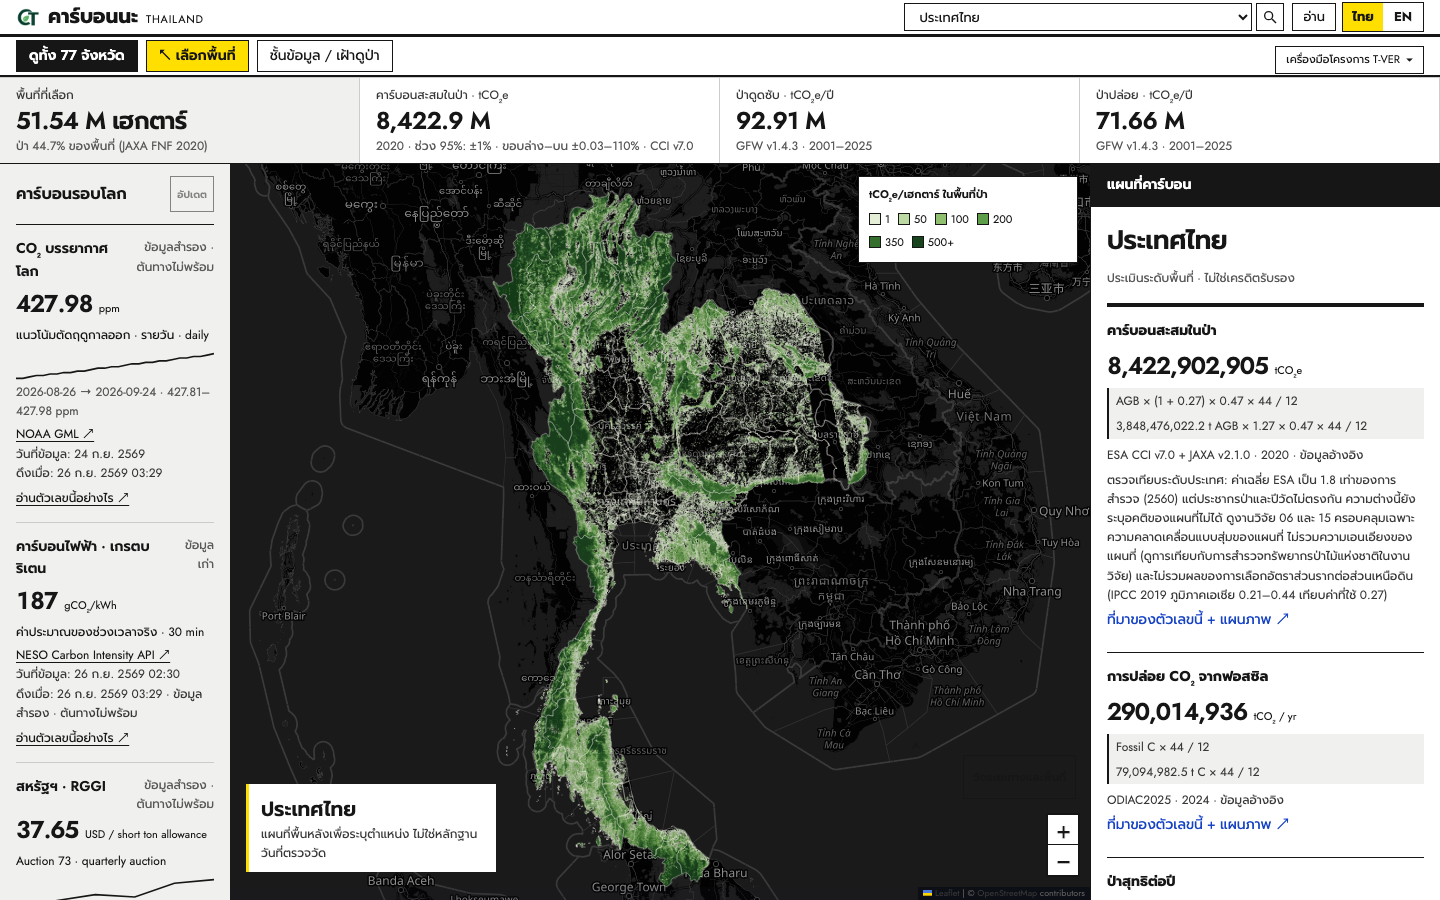
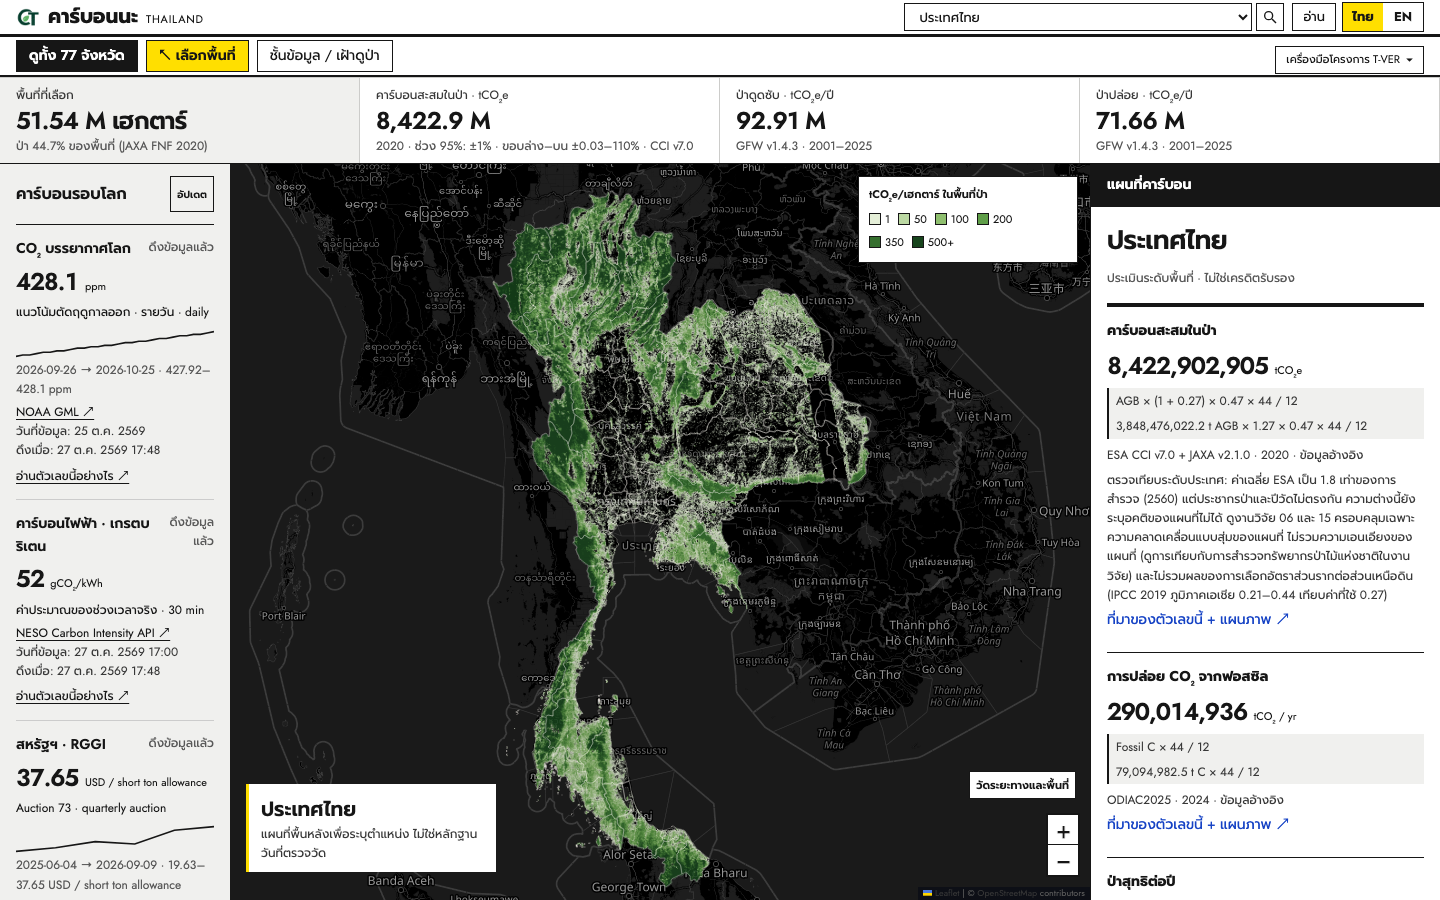
Keep measurement controls legible over map tiles
Agent: Codex

diff --git a/public/sea.html b/public/sea.html
@@ -1,1 +1,1 @@
-<!doctype html><html lang="th"><head><meta charset="utf-8"><meta name="viewport" content="width=device-width,initial-scale=1"><title>Carbona · Southeast Asia</title><meta name="description" content="Compare forest area, forest carbon flux and territorial CO2 across eleven Southeast Asian countries. Thai/English data, methods and sources."><link rel="icon" href="images/brand/icon-32.png"><link rel="stylesheet" href="vendor/leaflet/leaflet.css?v=a78371028241"><link rel="stylesheet" href="css/sea.css?v=681639fe8445"><link rel="stylesheet" href="css/type.css?v=0524ad8a2a8d"><link rel="stylesheet" href="css/reading.css?v=6b91a0741c88"><link rel="stylesheet" href="css/workspace.css?v=ee2ba721f114"><link rel="stylesheet" href="css/flat-controls.css?v=e3bb6d7c7fae"></head><body data-sea-view="map"><a class="skip" href="#countryEvidence">ข้ามไปหลักฐาน / Skip to evidence</a><header class="top"><div class="workspace-bar" id="workspaceBar"><div class="brand"><img class="kabonna-mark" src="images/brand/ct-mark.png" width="32" height="32" alt=""><div><h1><span id="brandName">คาร์บอนนะ</span><span class="country" id="scopeName">Southeast Asia</span></h1></div></div><div class="search"><label class="sr" for="scopeSwitch">พื้นที่ / Geography</label><select id="scopeSwitch"><option value="TH">ประเทศไทย</option><option value="SEA" selected>เอเชียตะวันออกเฉียงใต้</option></select></div><nav class="top-right"><details class="reference-menu read-menu"><summary id="readLabel">อ่าน</summary><div class="read-links"><a id="bibleLink" href="bible.html?lang=th#sea-overview" target="_blank" rel="noopener">วิธีและงานวิจัย ↗</a><a id="thaiLink" href="/?lang=th">เครื่องมือไทย</a></div></details><div class="langs" role="group" aria-label="Language"><button data-lang="th" aria-pressed="true">ไทย</button><button data-lang="en" aria-pressed="false">EN</button></div></nav></div></header><main><section class="scope-tools"><label><span id="countryLabel">เลือกประเทศ</span><select id="country"><option value="SEA">ทั้งภูมิภาค / All countries</option></select></label><label><span id="metricLabel">แผนที่แสดง</span><select id="metric"></select></label><nav class="sea-views" aria-label="Regional views"><label class="view-select"><span id="viewLabel">มุมมอง</span><select id="seaView"><option value="map">แผนที่</option><option value="evidence">หลักฐาน</option><option value="compare">เทียบ 11 ประเทศ</option><option value="research">งานวิจัย</option></select></label><button data-sea-view="map" aria-pressed="true" aria-controls="regionalWorkspace">แผนที่</button><button data-sea-view="evidence" aria-pressed="false" aria-controls="countryEvidence">หลักฐาน</button><button data-sea-view="compare" aria-pressed="false" aria-controls="regionalComparison">เทียบ 11 ประเทศ</button><button data-sea-view="research" aria-pressed="false" aria-controls="regionalResearch">งานวิจัย</button></nav><button id="fitRegion">ดูทั้งภูมิภาค</button></section><section class="workspace" id="regionalWorkspace"><div class="map-column"><div id="seaMap" aria-label="Southeast Asia country map"></div><div class="map-legend" id="mapLegend"></div><div class="data-status"><p id="status" role="status">กำลังโหลดข้อมูล 11 ประเทศ / Loading eleven countries…</p><span id="snapshotDate"></span></div><details class="boundary-note"><summary>ขอบเขตแผนที่ / Map boundaries</summary><p class="map-note" id="geometryNote"></p></details></div><article id="countryEvidence" tabindex="0"><h1 id="countryTitle">เอเชียตะวันออกเฉียงใต้</h1><p id="scopeNote"></p><dl id="countryNumbers"></dl><section id="calculation"></section><figure id="history"></figure><div class="reader-actions"><a id="countryChapter" href="bible.html?lang=th#sea-overview" target="_blank" rel="noopener">อ่านงานวิจัยประเทศ ↗</a><button id="exportJSON">JSON</button><button id="exportCSV">CSV</button></div><p id="limits"></p><details><summary id="sourceTitle">แหล่งข้อมูลและสิทธิใช้งาน</summary><div id="sourceList"></div></details></article></section><section class="comparison" id="regionalComparison"><div class="table-heading"><h2 id="compareTitle">เปรียบเทียบ 11 ประเทศ</h2><label><span id="searchLabel">ค้นไทยหรืออังกฤษ</span><input id="countrySearch" type="search"></label></div><p id="compareNote"></p><div class="table-scroll" role="region" aria-label="Country comparison" tabindex="0"><table><thead id="countryHead"></thead><tbody id="countryRows"></tbody></table></div><p id="noCountries" hidden></p></section><section class="research-route" id="regionalResearch"><h2 id="researchTitle"></h2><p id="researchIntro"></p><div id="readingRoutes"></div></section></main><footer><div class="partners"><img src="images/logos/depa.jpg" alt="depa"><img src="images/logos/rcad.svg" alt="RCAD"><span><img src="images/logos/axiom-navy-tile.png" alt="">axiom</span><img src="images/logos/slic.jpg" alt="SLIC"></div><p id="fineprint"></p><a href="data/sea/snapshot.json" id="dataDownload" download>ข้อมูลและที่มา / Data & provenance</a><span id="version"></span></footer><script src="vendor/leaflet/leaflet.js?v=db49d009c841"></script><script type="module" src="js/sea.js?v=8136ec3a2d8b"></script></body></html>
+<!doctype html><html lang="th"><head><meta charset="utf-8"><meta name="viewport" content="width=device-width,initial-scale=1"><title>Carbona · Southeast Asia</title><meta name="description" content="Compare forest area, forest carbon flux and territorial CO2 across eleven Southeast Asian countries. Thai/English data, methods and sources."><link rel="icon" href="images/brand/icon-32.png"><link rel="stylesheet" href="vendor/leaflet/leaflet.css?v=a78371028241"><link rel="stylesheet" href="css/sea.css?v=681639fe8445"><link rel="stylesheet" href="css/type.css?v=0524ad8a2a8d"><link rel="stylesheet" href="css/reading.css?v=6b91a0741c88"><link rel="stylesheet" href="css/workspace.css?v=ee2ba721f114"><link rel="stylesheet" href="css/flat-controls.css?v=389951a2240e"></head><body data-sea-view="map"><a class="skip" href="#countryEvidence">ข้ามไปหลักฐาน / Skip to evidence</a><header class="top"><div class="workspace-bar" id="workspaceBar"><div class="brand"><img class="kabonna-mark" src="images/brand/ct-mark.png" width="32" height="32" alt=""><div><h1><span id="brandName">คาร์บอนนะ</span><span class="country" id="scopeName">Southeast Asia</span></h1></div></div><div class="search"><label class="sr" for="scopeSwitch">พื้นที่ / Geography</label><select id="scopeSwitch"><option value="TH">ประเทศไทย</option><option value="SEA" selected>เอเชียตะวันออกเฉียงใต้</option></select></div><nav class="top-right"><details class="reference-menu read-menu"><summary id="readLabel">อ่าน</summary><div class="read-links"><a id="bibleLink" href="bible.html?lang=th#sea-overview" target="_blank" rel="noopener">วิธีและงานวิจัย ↗</a><a id="thaiLink" href="/?lang=th">เครื่องมือไทย</a></div></details><div class="langs" role="group" aria-label="Language"><button data-lang="th" aria-pressed="true">ไทย</button><button data-lang="en" aria-pressed="false">EN</button></div></nav></div></header><main><section class="scope-tools"><label><span id="countryLabel">เลือกประเทศ</span><select id="country"><option value="SEA">ทั้งภูมิภาค / All countries</option></select></label><label><span id="metricLabel">แผนที่แสดง</span><select id="metric"></select></label><nav class="sea-views" aria-label="Regional views"><label class="view-select"><span id="viewLabel">มุมมอง</span><select id="seaView"><option value="map">แผนที่</option><option value="evidence">หลักฐาน</option><option value="compare">เทียบ 11 ประเทศ</option><option value="research">งานวิจัย</option></select></label><button data-sea-view="map" aria-pressed="true" aria-controls="regionalWorkspace">แผนที่</button><button data-sea-view="evidence" aria-pressed="false" aria-controls="countryEvidence">หลักฐาน</button><button data-sea-view="compare" aria-pressed="false" aria-controls="regionalComparison">เทียบ 11 ประเทศ</button><button data-sea-view="research" aria-pressed="false" aria-controls="regionalResearch">งานวิจัย</button></nav><button id="fitRegion">ดูทั้งภูมิภาค</button></section><section class="workspace" id="regionalWorkspace"><div class="map-column"><div id="seaMap" aria-label="Southeast Asia country map"></div><div class="map-legend" id="mapLegend"></div><div class="data-status"><p id="status" role="status">กำลังโหลดข้อมูล 11 ประเทศ / Loading eleven countries…</p><span id="snapshotDate"></span></div><details class="boundary-note"><summary>ขอบเขตแผนที่ / Map boundaries</summary><p class="map-note" id="geometryNote"></p></details></div><article id="countryEvidence" tabindex="0"><h1 id="countryTitle">เอเชียตะวันออกเฉียงใต้</h1><p id="scopeNote"></p><dl id="countryNumbers"></dl><section id="calculation"></section><figure id="history"></figure><div class="reader-actions"><a id="countryChapter" href="bible.html?lang=th#sea-overview" target="_blank" rel="noopener">อ่านงานวิจัยประเทศ ↗</a><button id="exportJSON">JSON</button><button id="exportCSV">CSV</button></div><p id="limits"></p><details><summary id="sourceTitle">แหล่งข้อมูลและสิทธิใช้งาน</summary><div id="sourceList"></div></details></article></section><section class="comparison" id="regionalComparison"><div class="table-heading"><h2 id="compareTitle">เปรียบเทียบ 11 ประเทศ</h2><label><span id="searchLabel">ค้นไทยหรืออังกฤษ</span><input id="countrySearch" type="search"></label></div><p id="compareNote"></p><div class="table-scroll" role="region" aria-label="Country comparison" tabindex="0"><table><thead id="countryHead"></thead><tbody id="countryRows"></tbody></table></div><p id="noCountries" hidden></p></section><section class="research-route" id="regionalResearch"><h2 id="researchTitle"></h2><p id="researchIntro"></p><div id="readingRoutes"></div></section></main><footer><div class="partners"><img src="images/logos/depa.jpg" alt="depa"><img src="images/logos/rcad.svg" alt="RCAD"><span><img src="images/logos/axiom-navy-tile.png" alt="">axiom</span><img src="images/logos/slic.jpg" alt="SLIC"></div><p id="fineprint"></p><a href="data/sea/snapshot.json" id="dataDownload" download>ข้อมูลและที่มา / Data & provenance</a><span id="version"></span></footer><script src="vendor/leaflet/leaflet.js?v=db49d009c841"></script><script type="module" src="js/sea.js?v=8136ec3a2d8b"></script></body></html>

diff --git a/public/index.html b/public/index.html
@@ -1,5 +1,5 @@
 <!doctype html>
-<html lang="th"><head><meta charset="utf-8"><meta name="viewport" content="width=device-width, initial-scale=1, viewport-fit=cover"><title>Carbona · forest carbon</title><meta name="description" content="คาร์บอนนะ — Thai / English forest carbon: tap a province or draw a box to see satellite-based carbon stock, forest removals and emissions, fire and fossil CO₂, with sources and uncertainty. Estimates are not credits."><meta name="theme-color" content="#ffffff"><link rel="icon" href="images/brand/icon-32.png" type="image/png"><link rel="apple-touch-icon" href="images/brand/icon-180.png"><link rel="manifest" href="manifest.json"><meta name="apple-mobile-web-app-capable" content="yes"><meta name="apple-mobile-web-app-title" content="Carbona"><link rel="stylesheet" href="vendor/leaflet/leaflet.css?v=a78371028241"><link rel="stylesheet" href="css/malaysia.css?v=271bd177449c"><link rel="stylesheet" href="css/app.css?v=e0a82245a1f4"><link rel="stylesheet" href="css/dashboard.css?v=5b8f75c40633"><link rel="stylesheet" href="css/kabonna.css?v=2943d05eb4b6"><link rel="stylesheet" href="css/ship.css?v=d64bdffb746b"><link rel="stylesheet" href="css/type.css?v=0524ad8a2a8d"><link rel="stylesheet" href="css/reading.css?v=6b91a0741c88"><link rel="stylesheet" href="css/workspace.css?v=ee2ba721f114"><link rel="stylesheet" href="css/flat-controls.css?v=e3bb6d7c7fae"></head>
+<html lang="th"><head><meta charset="utf-8"><meta name="viewport" content="width=device-width, initial-scale=1, viewport-fit=cover"><title>Carbona · forest carbon</title><meta name="description" content="คาร์บอนนะ — Thai / English forest carbon: tap a province or draw a box to see satellite-based carbon stock, forest removals and emissions, fire and fossil CO₂, with sources and uncertainty. Estimates are not credits."><meta name="theme-color" content="#ffffff"><link rel="icon" href="images/brand/icon-32.png" type="image/png"><link rel="apple-touch-icon" href="images/brand/icon-180.png"><link rel="manifest" href="manifest.json"><meta name="apple-mobile-web-app-capable" content="yes"><meta name="apple-mobile-web-app-title" content="Carbona"><link rel="stylesheet" href="vendor/leaflet/leaflet.css?v=a78371028241"><link rel="stylesheet" href="css/malaysia.css?v=271bd177449c"><link rel="stylesheet" href="css/app.css?v=e0a82245a1f4"><link rel="stylesheet" href="css/dashboard.css?v=5b8f75c40633"><link rel="stylesheet" href="css/kabonna.css?v=2943d05eb4b6"><link rel="stylesheet" href="css/ship.css?v=d64bdffb746b"><link rel="stylesheet" href="css/type.css?v=0524ad8a2a8d"><link rel="stylesheet" href="css/reading.css?v=6b91a0741c88"><link rel="stylesheet" href="css/workspace.css?v=ee2ba721f114"><link rel="stylesheet" href="css/flat-controls.css?v=389951a2240e"></head>
 <body class="dashboard" data-view="map" data-basemap="dark">
 <a class="skip" href="#tabBody">ข้ามไปเนื้อหา / Skip to assessment</a>
 <header class="top"><div class="workspace-bar" id="workspaceBar"><div class="brand"><img class="kabonna-mark" src="images/brand/ct-mark.png" width="40" height="40" alt=""><div><h1><span data-i18n="title">คาร์บอนนะ</span><span class="country">Thailand</span></h1><p data-i18n="subtitle">พื้นที่ · หลักฐาน · การประเมิน</p></div></div>

diff --git a/public/css/flat-controls.css b/public/css/flat-controls.css
@@ -65,3 +65,5 @@ body[data-region] .workspace-bar .geocode-wrap{display:none}
  body.dashboard[data-view=map]:not([data-region]):not([data-about]) .leaflet-bottom{bottom:0}
  body.dashboard[data-view=map]:not([data-region]):not([data-about]) .map-caption{bottom:24px}
 }
+/* A map tool needs its own opaque surface over both dark and satellite tiles. */
+.dashboard .measure-ctrl .btn{min-height:var(--control-block);padding:3px 6px;background:white;color:var(--ink);border:1px solid var(--ink);line-height:1.4}

diff --git a/docs/audits/2026-10-26/COMPACT-CHROME.md b/docs/audits/2026-10-26/COMPACT-CHROME.md
@@ -20,7 +20,7 @@ Touch inputs receive 36px targets instead of the pointer's 28px. Text enlargemen
 - Photon search was blocked by production CSP, used unsupported `lang=th`, and read coordinates from properties instead of GeoJSON geometry. The policy now permits only the specific Photon origin; Thai uses the service's `default` language. An actual upstream probe returned 400 for `th` and 200 for `default`.
 - Search could replace a newer query with a slow older response. A request revision prevents that. Failure and empty results have visible statuses. The disclosure states that place queries go to Photon; project files stay local.
 - Moving keyboard focus to a search result hid that result. Focus now remains inside the disclosure until the user leaves it; Tab, arrows, Enter and Escape work.
-- Measurement covered the carbon legend. It now shares Leaflet's bottom-right control stack, above zoom.
+- Measurement covered the carbon legend. It now shares Leaflet's bottom-right control stack, above zoom, with an opaque white surface so the label is readable over dark and satellite tiles. It uses the same compact pointer/touch target policy as the other tools.
 - Measurement captured clicks while inactive, crashed when enabled or panned before its first point, and could trigger province navigation while measuring. Guards and propagation handling keep these modes separate.
 - Area conversion incorrectly used 4,000m² per rai. It now uses 1,600m², with numerical regression assertions. These approximate map measurements remain orientation tools.
 
